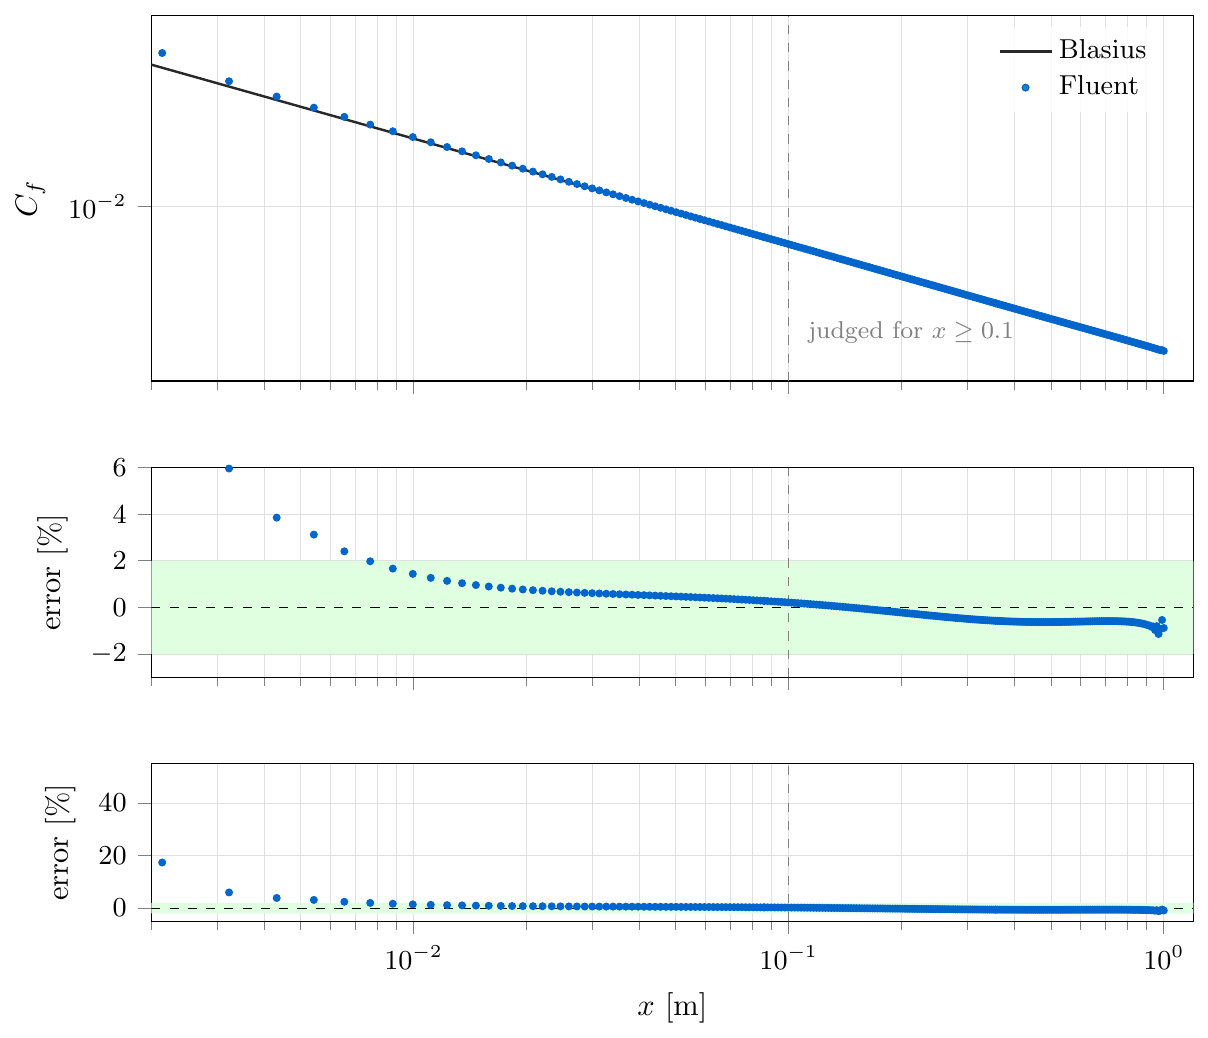
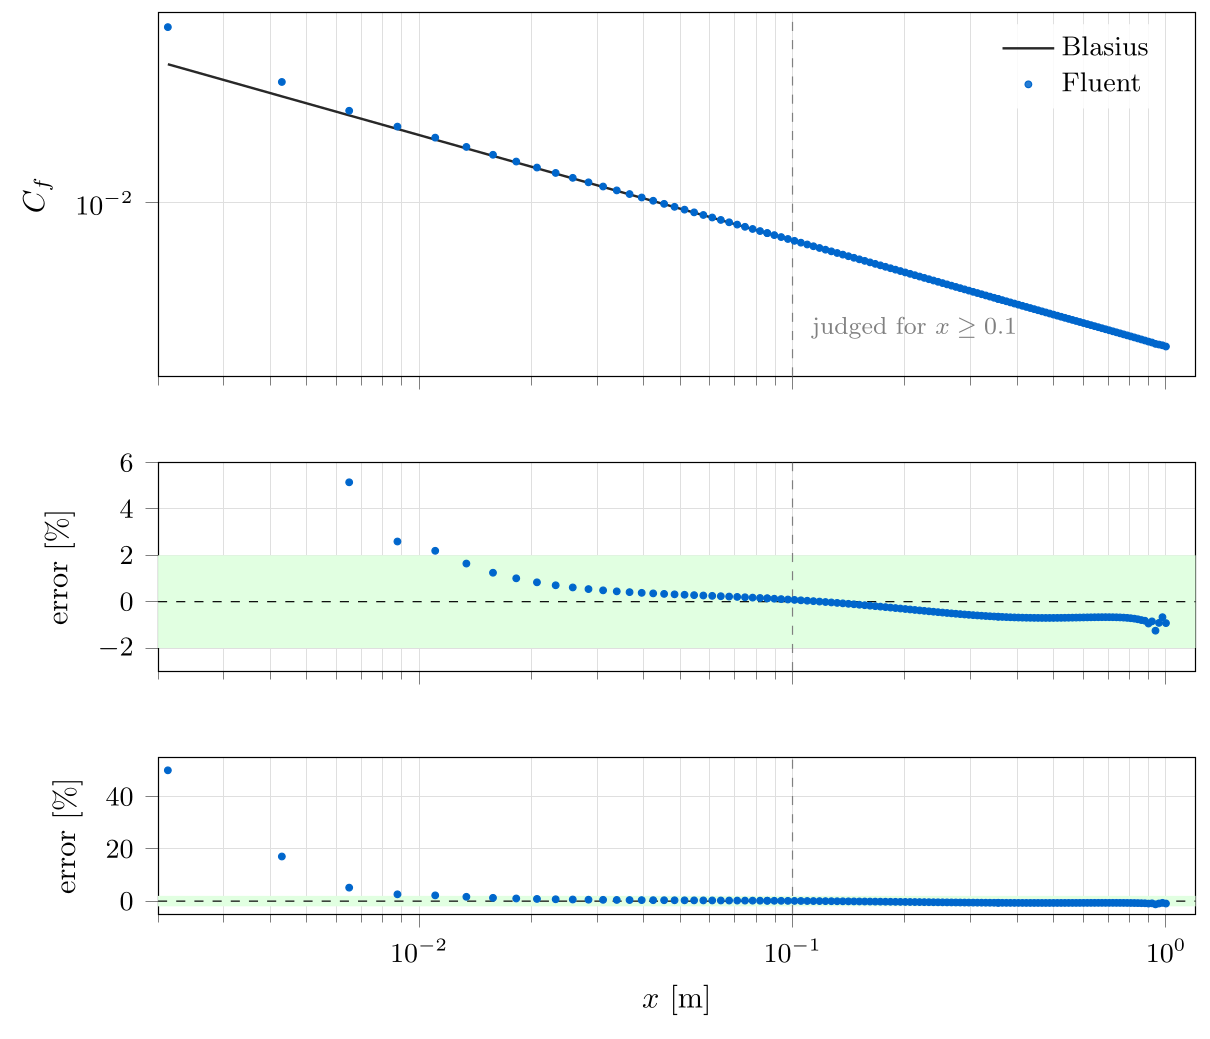
Show C_f, q_w and profiles on the medium mesh for consistency

diff --git a/_portfolio/fluent-flat-plate.md b/_portfolio/fluent-flat-plate.md
@@ -14,7 +14,7 @@ collection: portfolio
 I set up, solved, and verified a steady laminar flat-plate boundary layer with heat transfer in
 **Ansys Fluent**.
 
-The case is a steady laminar flow over an isothermal flat plate of zero thickness (Figure 1),
+The case is a steady laminar flow over an isothermal flat plate (Figure 1),
 at $$\mathrm{Re}_L = 10^5$$. The wall is at 350 K in a 300 K stream. The fluid is
 air-like: $$\mathrm{Pr} = 0.72$$, with constant density and viscosity, so the Blasius and
 Pohlhausen similarity solution is exact and not approximate.
@@ -33,7 +33,8 @@ rate.
 
 All three are measured against the similarity solution. The wall quantities are computed on three
 systematically refined meshes, which separates the discretization error from the terms that
-boundary-layer theory omits; the profiles come from the medium mesh.
+boundary-layer theory omits. The plots of each quantity use the medium mesh; the mesh
+convergence section compares all three.
 
 ## The computational model
 
@@ -121,7 +122,7 @@ it is the most sensitive test of the near-wall mesh.
 
 ![Skin friction](/images/flatplate/flatplate_cf.png)
 
-*Top: $$C_f$$ on the fine mesh against Blasius. Middle and bottom: error in percent, with the
+*Top: $$C_f$$ on the medium mesh against Blasius. Middle and bottom: error in percent, with the
 $$\pm 2\%$$ band shaded. The large error near $$x = 0$$ comes from the $$x^{-1/2}$$ singularity of
 the exact solution at the leading edge, not from a mesh failure.*
 {: .caption}
@@ -133,8 +134,8 @@ temperature gradient at the wall, and it tests the energy equation.
 
 ![Wall heat flux](/images/flatplate/flatplate_qw.png)
 
-*Wall heat flux on the fine mesh against the exact $$65.339/\sqrt{x}$$ W/m², with the $$\pm 3\%$$
-band shaded. The error is about $$-0.2\%$$ and flat over the judged range.*
+*Wall heat flux on the medium mesh against the exact $$65.339/\sqrt{x}$$ W/m², with the $$\pm 3\%$$
+band shaded. The error is between $$-0.27\%$$ and $$-0.54\%$$ over the judged range.*
 {: .caption}
 
 #### Velocity profiles
@@ -167,13 +168,13 @@ solution contains and boundary-layer theory leaves out: terms of order $$\mathrm
 
 #### Summary
 
-| Quantity | Criterion | Fine mesh | Result |
+| Quantity | Criterion | Medium mesh | Result |
 |---|---|---|---|
-| Skin friction error, $$x \geq 0.1$$ | $$\lvert E \rvert < 2\%$$ | $$+0.20\%$$ to $$-1.15\%$$ | pass |
-| Wall heat flux error, $$x \geq 0.1$$ | $$\lvert E \rvert < 3\%$$ | $$-0.13\%$$ to $$-0.36\%$$ | pass |
+| Skin friction error, $$x \geq 0.1$$ | $$\lvert E \rvert < 2\%$$ | $$+0.08\%$$ to $$-1.25\%$$ | pass |
+| Wall heat flux error, $$x \geq 0.1$$ | $$\lvert E \rvert < 3\%$$ | $$-0.27\%$$ to $$-0.54\%$$ | pass |
 | Velocity profile error, 5 stations | $$< 1\%$$ | $$0.29\%$$ | pass |
-| Plate drag coefficient | — | $$4.2136 \times 10^{-3}$$ ($$+0.32\%$$) | |
-| Mean wall heat flux | — | 130.68 W/m² ($$+0.002\%$$) | |
+| Plate drag coefficient | — | $$4.2086 \times 10^{-3}$$ ($$+0.20\%$$) | |
+| Mean wall heat flux | — | 130.58 W/m² ($$-0.07\%$$) | |
 
 ### Issues and possible improvements
 
@@ -199,7 +200,7 @@ one only by predicting a number and checking it.
 
 - Rerun with real air properties at the film temperature (325 K) instead of the air-like values.
 - Extract the velocity profiles on the fine mesh. A mesh replacement silently dropped the sampling
-  lines, so the profiles are one level behind the other results.
+  lines, so the plots show the medium mesh.
 - Next cases: variable properties and compressibility, then a turbulent flat plate.
 
 ## The exact solution
